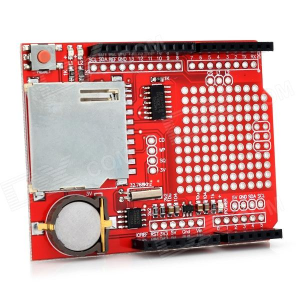
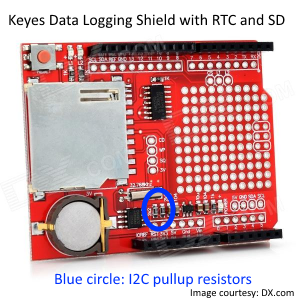
Improve documentation (Fritzing files, images and text)

Changed region(s): [[0.18, 0.9, 0.99, 1.0], [0.03, 0.03, 0.96, 0.09], [0.45, 0.6, 0.6, 0.78]]

diff --git a/doc/setups.md b/doc/setups.md
@@ -1,0 +1,52 @@
+A selection of possible Arducom setups
+======================================
+
+Connecting using a USB cable
+----------------------------
+
+The simplest setup would be:
+
+![Raspberry Pi - USB - Arduino Uno](Raspberry-USB-Arduino.png)
+
+Of course, you can also use a normal PC or laptop instead of a Raspberry Pi.
+
+Direct serial connection
+------------------------
+
+![Raspberry Pi - UART - Arduino Uno](Raspberry-UART-Arduino.png)
+
+Note that for other serial ports, such as those of PCs, you need a voltage level converter.
+
+On a Raspberry Pi with Raspbian, this serial port is the device /dev/ttyAMA0. Depending on your configuration
+you will have to prevent the system from occupying this port at startup.
+For an example how to do this see here: https://www.raspberrypi.org/forums/viewtopic.php?f=44&t=15683
+
+I2C connection
+--------------
+
+![Raspberry Pi - I2C - Arduino Uno](Raspberry-I2C-Arduino.png)
+
+I2C needs to be enabled for this setup to function. How to do this depends on your Raspberry Pi model
+and your operating system. Please check the web on how to do this for your particular situation.
+
+WLAN connection (using an ESP8266)
+----------------------------------
+
+![ESP8266 - Arduino Uno](ESP8266-Arduino.png)
+
+The ESP9266-01 requires a slightly more complicated setup due to the required pullup resistors.
+Do not use the Arduino's 3.3 volts for powering the WLAN module but an external power supply.
+If you need to program the ESP8266 you can add a programming switch that you have to close during startup.
+By loading the "BareMinimum" sketch to the Arduino you can then program the ESP8266 via the Arduino's USB port.
+
+Arducom provides a test sketch in the esp8266 folder (TODO).
+
+Real Time Clock and SD card
+---------------------------
+
+For additional features, use a data logging shield such as this:
+
+![Keyes Data Logging Shield](Keyes-Data-Logging-Shield.png)
+
+If you connect to this shield from a Raspberry Pi via I2C you have to remove the two I2C pullup resistors.
+Not doing so can damage your Raspberry's IO ports!

diff --git a/src/slave/hello-world/README.md b/src/slave/hello-world/README.md
@@ -5,7 +5,7 @@ The recommended system for this sketch is an Arduino Uno with a DS 1307 Real Tim
 
 The simplest setup would be:
 
-![Raspberry Pi - USB - Arduino Uno](../../../doc/Raspberry-USB-Arduino (Small).png)
+![Raspberry Pi - USB - Arduino Uno](../../../doc/Raspberry-USB-Arduino.png)
 
 For additional features, use a data logging shield such as this:
 

diff --git a/README.md b/README.md
@@ -51,6 +51,10 @@ For the bare necessities, have a look at:
 
 https://github.com/leomeyer/Arducom/blob/master/src/slave/minimal/minimal_arducom.ino
 
+For a list of possible hardware setups, go to:
+
+https://github.com/leomeyer/Arducom/tree/master/doc/setups.md
+
 Protocol description
 --------------------
 
